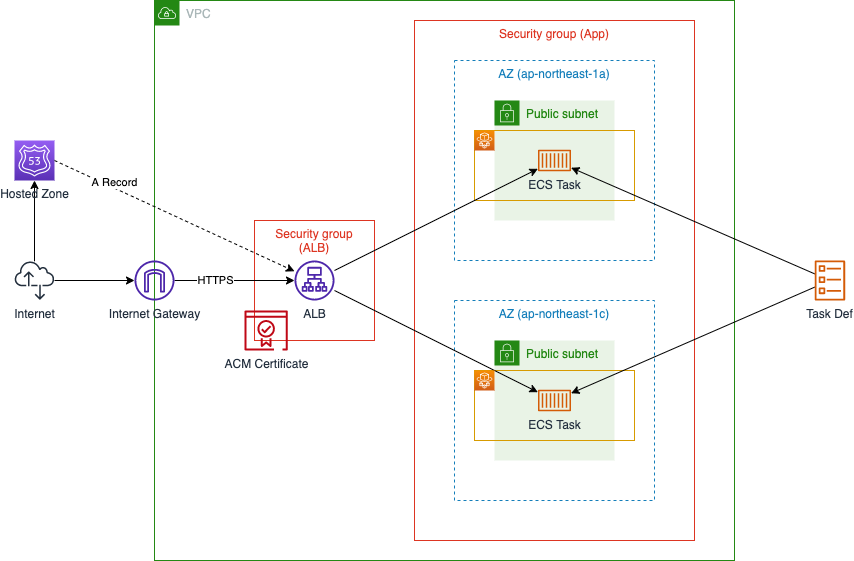
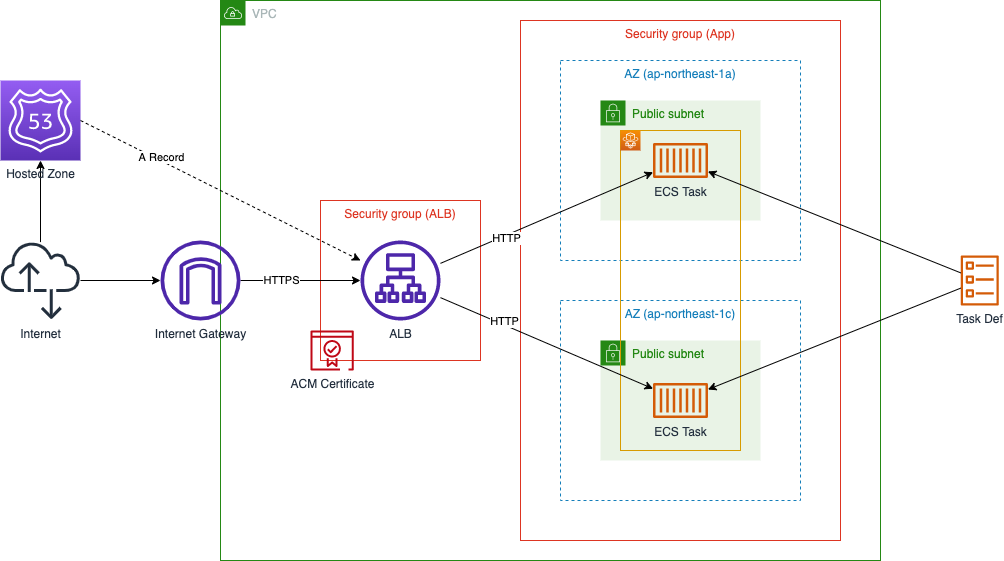
ecs_service_discovery ネットワーク・セキュリティグループ

diff --git a/content/post/container/ecs-service-discovery/index.md b/content/post/container/ecs-service-discovery/index.md
@@ -1,0 +1,204 @@
+---
+title: "ECS Service Discoveryを使ったService間連携"
+date: 2021-12-22
+slug: ecs-service-discovery
+categories: [container]
+tags: [ECS, Terraform]
+image: group-container-ecs-service-discovery-architecture.png
+draft: true
+---
+
+## 作成するシステム構成
+
+ここでは、次のようなシステム構成を構築します。
+
+![](group-container-ecs-service-discovery-architecture.png)
+
+
+複数のECS Service間でリクエストを行えるシステム構成です。
+ECS Service Discoveryにより、DNS名をもとにECS Serviceに対してリクエストを行えます。
+
+ALBと連携することでも、DNS名をもとにECS Serviceに対してリクエストを行える状況にできます。
+ですが、ECS Service Discoveryを使うことにで、より手軽に構築できます。
+
+近年はコンテナ・サーバーレスなどコストをかけずにシステム構成を拡張できるようになりました。
+それにより、マイクロサービスを採用したシステム構成が実現しやすくなっています。
+そして、ECS Service Discoveryを使うことで、コンテナをベースとしたマイクロサービス構成をより手軽に構築できるようになります。
+
+また、システム構成をコードで管理できるようTerraformを使い構築を進めていきます。
+これにより、Production・Developmentといった複数環境に同等の構成を簡単に構築できるようになります。
+
+それでは、順番にシステムの構築を進めていきましょう。
+
+
+## ネットワーク構築
+
+まずは、VPC・Subnetといったネットワーク部分の構築を進めます。
+
+VPC内に異なるAZとなる２つのPublic Subnetを配置します。
+Public SubnetなのでInternetへと通信できるようInternet GatewayをVPCに配置し、Route Tableも設定します。
+
+この時、Service Discoveryを使うので、DNS・DNSホスト名の設定を有効にしておきます。
+設定を無効にしたとしてもエラーにはなりませんが、DNS名からリクエストできない状態となるので注意が必要です。
+
+```tf
+terraform {
+  required_providers {
+    aws = {
+      source = "hashicorp/aws"
+      version = "~> 3.70.0"
+    }
+  }
+}
+
+locals {
+  app_name = "ecs_service_discovery"
+}
+
+provider "aws" {
+  region = "ap-northeast-1"
+  default_tags {
+    tags = {
+      application = local.app_name
+    }
+  }
+}
+
+data "aws_caller_identity" "this" {}
+
+####################################################
+# VPC
+####################################################
+
+resource "aws_vpc" "this" {
+  cidr_block = "10.0.0.0/16"
+  enable_dns_support = true
+  enable_dns_hostnames = true
+  tags = {
+    Name = "${local.app_name}"
+  }
+}
+
+####################################################
+# Public Subnet
+####################################################
+
+resource "aws_internet_gateway" "this" {
+  vpc_id = aws_vpc.this.id
+  tags = {
+    Name = "${local.app_name}"
+  }
+}
+
+resource "aws_subnet" "public_1" {
+  vpc_id = aws_vpc.this.id
+  cidr_block = "10.0.1.0/24"
+  availability_zone = "ap-northeast-1a"
+  tags = {
+    Name = "${local.app_name}-public_1"
+  }
+}
+
+resource "aws_subnet" "public_2" {
+  vpc_id = aws_vpc.this.id
+  cidr_block = "10.0.2.0/24"
+  availability_zone = "ap-northeast-1c"
+  tags = {
+    Name = "${local.app_name}-public_2"
+  }
+}
+
+resource "aws_route_table" "public" {
+  vpc_id = aws_vpc.this.id
+  route {
+    cidr_block = "0.0.0.0/0"
+    gateway_id = aws_internet_gateway.this.id
+  }
+  tags = {
+    Name = "${local.app_name}-public"
+  }
+}
+
+resource "aws_route_table_association" "public_1_to_ig" {
+  subnet_id = aws_subnet.public_1.id
+  route_table_id = aws_route_table.public.id
+}
+
+resource "aws_route_table_association" "public_2_to_ig" {
+  subnet_id = aws_subnet.public_2.id
+  route_table_id = aws_route_table.public.id
+}
+```
+
+
+## セキュリティグループ構築
+
+つぎに、VPC内のアプリケーションに設定するセキュリティグループの構築を進めます。
+
+VPC内に複数のECS Serviceを配置し、互いにリクエストを行える状態にする必要があります。
+なので、各ECS Serviceに共通のセキュリティグループを適用し、同セキュリティグループからの通信を許可することとします。
+
+また、動作確認ができるようインターネットからのHTTP通信も許可しておきます。
+本番の構成では、ALBなどを配置して直接ECS Serviceに通信できない構成が望ましいと思われます。
+
+```tf
+####################################################
+# Application Security Group
+####################################################
+
+resource "aws_security_group" "app" {
+  name = "${local.app_name}-app"
+  description = "Security Group for Application"
+  vpc_id = aws_vpc.this.id
+  tags = {
+    Name = "${local.app_name}-app"
+  }
+}
+
+resource "aws_security_group_rule" "app_from_this" {
+  security_group_id = aws_security_group.app.id
+  type = "ingress"
+  description = "Allow from This"
+  from_port = 0
+  to_port = 0
+  protocol = "-1"
+  self = true
+}
+
+resource "aws_security_group_rule" "app_from_any_http" {
+  security_group_id = aws_security_group.app.id
+  type = "ingress"
+  description = "Allow from Any HTTP"
+  from_port = 80
+  to_port = 80
+  protocol = "tcp"
+  cidr_blocks = ["0.0.0.0/0"]
+}
+
+resource "aws_security_group_rule" "app_to_any" {
+  security_group_id = aws_security_group.app.id
+  type = "egress"
+  description = "Allow to Any"
+  from_port = 0
+  to_port = 0
+  protocol = "-1"
+  cidr_blocks = ["0.0.0.0/0"]
+}
+```
+
+## Service Discovery 構築
+
+TBD
+
+
+## コンテナサービス構築
+
+TBD
+
+
+
+```
+aws ecr get-login-password --region ap-northeast-1 | docker login --username AWS --password-stdin $(aws sts get-caller-identity | jq -r .Account).dkr.ecr.ap-northeast-1.amazonaws.com
+docker build --tag $(aws sts get-caller-identity | jq -r .Account).dkr.ecr.ap-northeast-1.amazonaws.com/ecs_service_discovery:latest ./
+docker push $(aws sts get-caller-identity | jq -r .Account).dkr.ecr.ap-northeast-1.amazonaws.com/ecs_service_discovery:latest
+```
